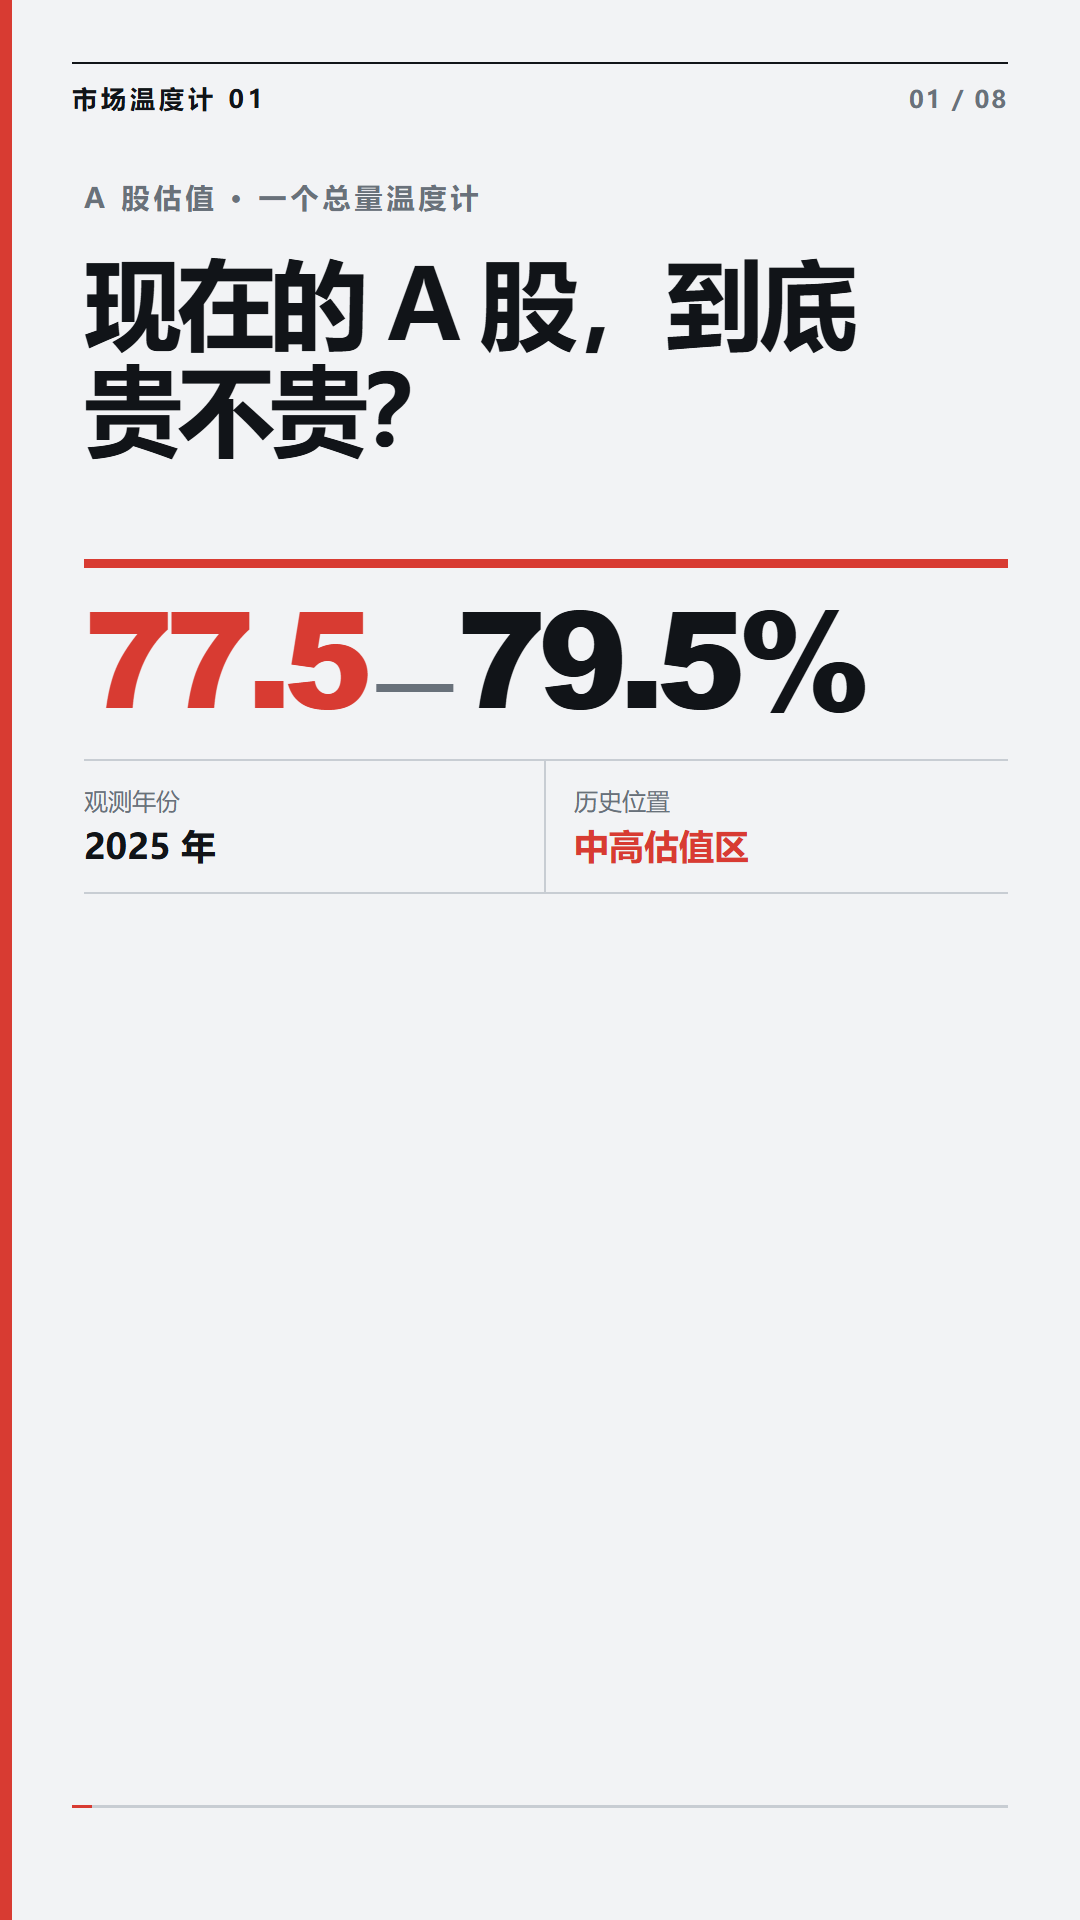
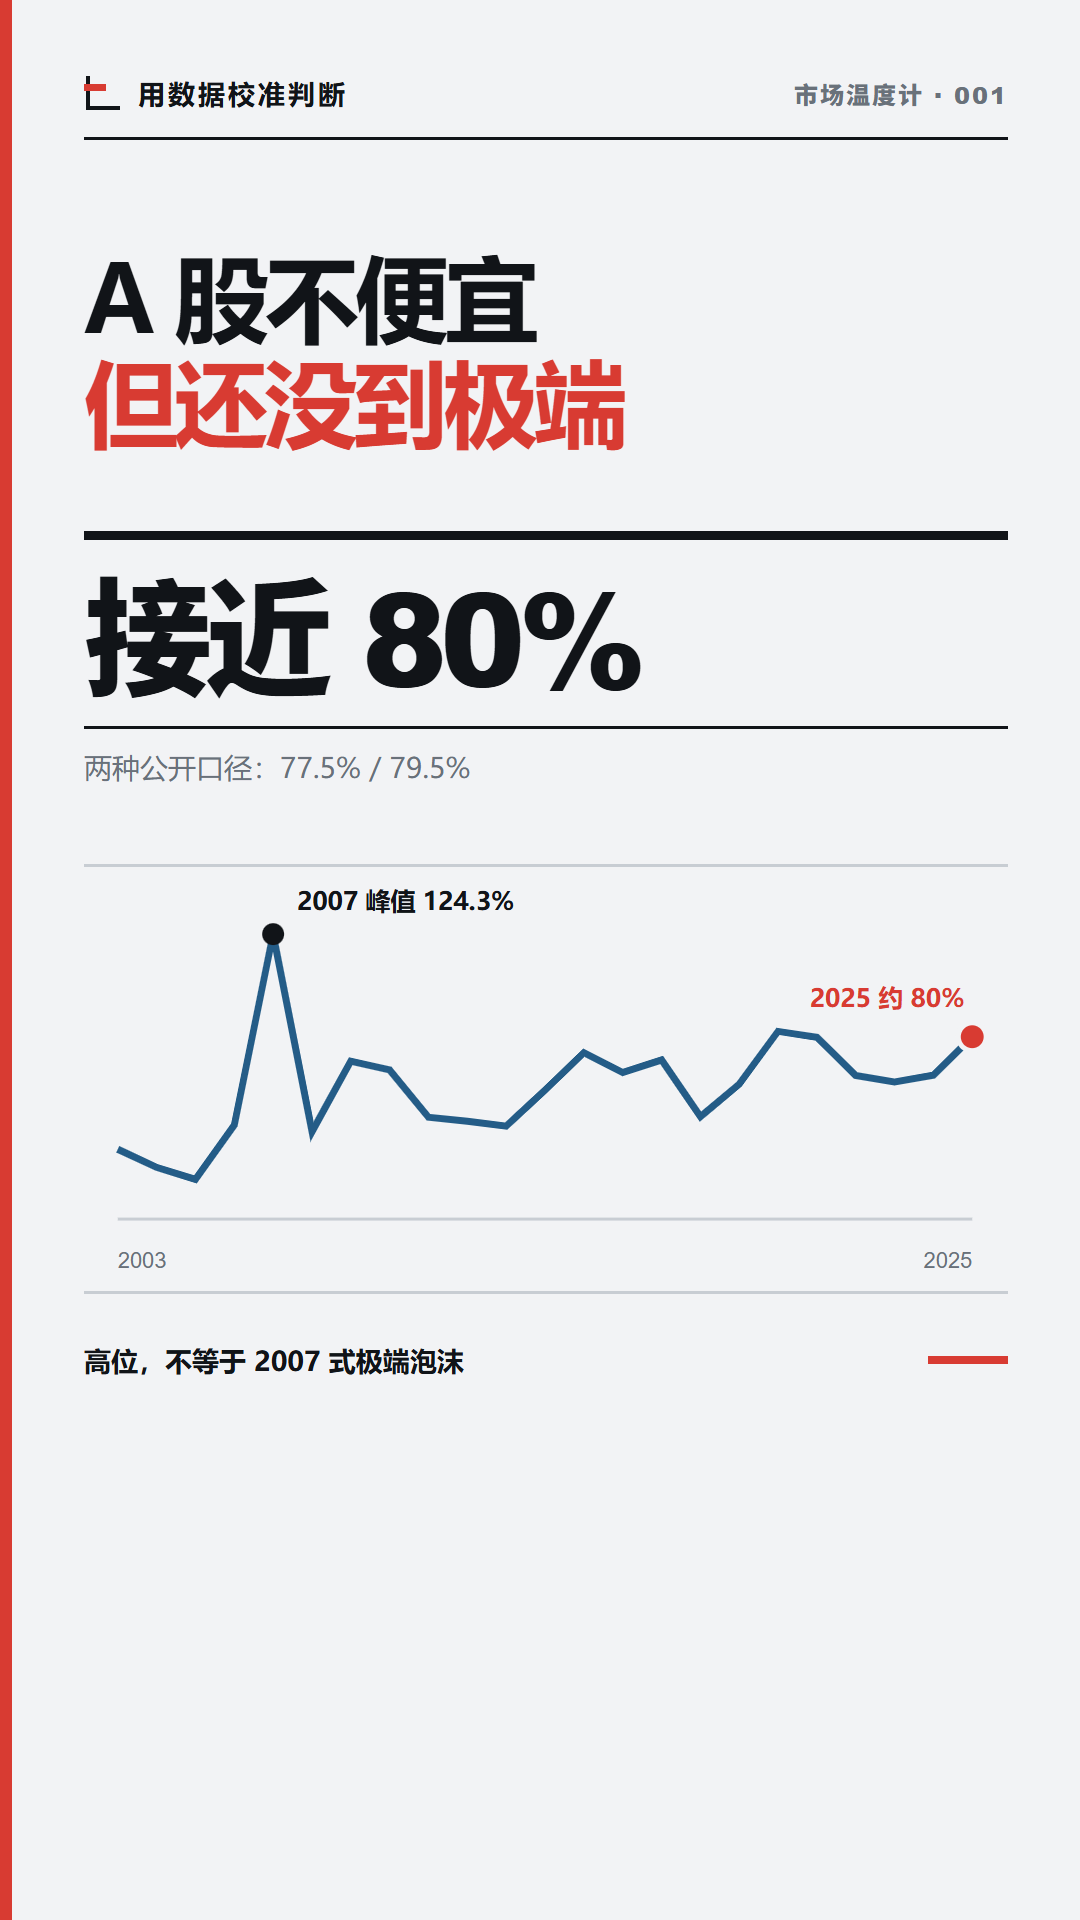
feat: add reviewed voice pacing and brand cover

diff --git a/src/video/KnowledgeCover.tsx b/src/video/KnowledgeCover.tsx
@@ -1,0 +1,68 @@
+import React from "react";
+import {AbsoluteFill} from "remotion";
+import {BrandMark} from "./BrandMark";
+import type {DataPoint, VideoProps} from "./types";
+import {fontFamily, numberFontFamily, theme} from "./theme";
+
+const Chart: React.FC<{points: DataPoint[]; peakLabel?: string; currentLabel?: string}> = ({points, peakLabel, currentLabel}) => {
+  if (points.length < 2) return null;
+  const chart = {x: 34, y: 46, width: 860, height: 300};
+  const minYear = Math.min(...points.map((point) => point.year));
+  const maxYear = Math.max(...points.map((point) => point.year));
+  const maxValue = Math.max(130, ...points.map((point) => point.value));
+  const projected = points.map((point) => ({
+    ...point,
+    x: chart.x + ((point.year - minYear) / (maxYear - minYear)) * chart.width,
+    y: chart.y + chart.height - (point.value / maxValue) * chart.height,
+  }));
+  const path = projected.map((point, index) => `${index === 0 ? "M" : "L"}${point.x.toFixed(1)},${point.y.toFixed(1)}`).join(" ");
+  const peak = projected.reduce((best, point) => point.value > best.value ? point : best, projected[0]);
+  const current = projected[projected.length - 1];
+  return (
+    <svg width="100%" height="100%" viewBox="0 0 930 410" style={{fontFamily}}>
+      <line x1={chart.x} y1={chart.y + chart.height} x2={chart.x + chart.width} y2={chart.y + chart.height} stroke={theme.divider} strokeWidth="3" />
+      <path d={path} fill="none" stroke={theme.blue} strokeWidth="7" strokeLinejoin="miter" />
+      <circle cx={peak.x} cy={peak.y} r="11" fill={theme.ink} />
+      <circle cx={current.x} cy={current.y} r="14" fill={theme.red} stroke={theme.paper} strokeWidth="5" />
+      <text x={Math.min(peak.x + 24, 695)} y={Math.max(28, peak.y - 24)} fontSize="25" fontWeight="800" fill={theme.ink}>{peakLabel}</text>
+      <text x={current.x - 8} y={current.y - 30} textAnchor="end" fontSize="25" fontWeight="850" fill={theme.red}>{currentLabel}</text>
+      <text x={chart.x} y="395" fontFamily={numberFontFamily} fontSize="22" fill={theme.inkMuted}>{minYear}</text>
+      <text x={chart.x + chart.width} y="395" textAnchor="end" fontFamily={numberFontFamily} fontSize="22" fill={theme.inkMuted}>{maxYear}</text>
+    </svg>
+  );
+};
+
+export const KnowledgeCover: React.FC<VideoProps> = (props) => {
+  const cover = props.cover ?? {};
+  const brand = props.brand ?? {};
+  const points = props.scenes.find((scene) => scene.template === "line-chart")?.visual.points ?? [];
+  const titleLines = cover.titleLines ?? [props.title];
+  return (
+    <AbsoluteFill style={{background: theme.paper, color: theme.ink, fontFamily, padding: "74px 72px 72px 84px"}}>
+      <div style={{position: "absolute", left: 0, top: 0, bottom: 0, width: 12, background: theme.red}} />
+      <div style={{display: "flex", justifyContent: "space-between", alignItems: "center", paddingBottom: 25, borderBottom: `3px solid ${theme.ink}`}}>
+        <BrandMark tagline={brand.tagline} />
+        <div style={{fontFamily: numberFontFamily, fontSize: 24, fontWeight: 850, letterSpacing: 2, color: theme.inkMuted}}>{brand.series ?? "市场温度计"} · {brand.issue ?? "001"}</div>
+      </div>
+
+      <div style={{marginTop: 104}}>
+        <div style={{fontSize: 94, lineHeight: 1.12, fontWeight: 950, letterSpacing: -4}}>
+          {titleLines.map((line, index) => <div key={line} style={{color: index === 1 ? theme.red : theme.ink}}>{line}</div>)}
+        </div>
+        <div style={{display: "flex", alignItems: "baseline", gap: 22, marginTop: 76, padding: "32px 0 26px", borderTop: `9px solid ${theme.ink}`, borderBottom: `3px solid ${theme.ink}`}}>
+          <div style={{fontFamily: numberFontFamily, fontSize: 128, lineHeight: 1, fontWeight: 950, letterSpacing: -7}}>{cover.stat ?? "接近 80%"}</div>
+        </div>
+        <div style={{fontSize: 28, lineHeight: 1.4, color: theme.inkMuted, marginTop: 18}}>{cover.statNote}</div>
+      </div>
+
+      <div style={{height: 430, marginTop: 78, borderTop: `3px solid ${theme.divider}`, borderBottom: `3px solid ${theme.divider}`}}>
+        <Chart points={points} peakLabel={cover.peakLabel} currentLabel={cover.currentLabel} />
+      </div>
+
+      <div style={{marginTop: 48, display: "flex", justifyContent: "space-between", alignItems: "center"}}>
+        <div style={{fontSize: 27, fontWeight: 800}}>高位，不等于 2007 式极端泡沫</div>
+        <div style={{width: 80, height: 8, background: theme.red}} />
+      </div>
+    </AbsoluteFill>
+  );
+};

diff --git a/src/video/KnowledgeVideo.tsx b/src/video/KnowledgeVideo.tsx
@@ -2,25 +2,21 @@ import React from "react";
 import {Audio} from "@remotion/media";
 import {AbsoluteFill, Sequence, staticFile, useCurrentFrame} from "remotion";
 import {CaptionLayer} from "./CaptionLayer";
+import {BrandMark} from "./BrandMark";
 import {SceneRenderer} from "./templates";
 import type {VideoProps} from "./types";
 import {fontFamily, theme} from "./theme";
 
 export const KnowledgeVideo: React.FC<VideoProps> = (props) => {
   const frame = useCurrentFrame();
-  const sceneIndex = Math.max(0, props.scenes.findIndex((scene) => frame >= scene.from && frame < scene.from + scene.durationInFrames));
-  const progress = Math.min(1, frame / Math.max(1, props.totalFrames - 1));
 
   return (
     <AbsoluteFill style={{background: theme.paper, color: theme.ink, fontFamily}}>
       <div style={{position: "absolute", left: 0, top: 0, bottom: 0, width: 12, background: theme.red}} />
       <div style={{position: "absolute", left: 72, right: 72, top: 62, height: 2, background: theme.ink}} />
-      <div style={{position: "absolute", left: 72, right: 72, top: 82, display: "flex", justifyContent: "space-between", alignItems: "baseline", color: theme.ink, fontWeight: 800}}>
-        <span style={{fontSize: 25, letterSpacing: 4}}>{props.seriesLabel}</span>
-        <span style={{fontSize: 24, color: theme.inkMuted, letterSpacing: 2}}>0{sceneIndex + 1} / 0{props.scenes.length}</span>
-      </div>
-      <div style={{position: "absolute", left: 72, right: 72, bottom: 112, height: 3, background: theme.divider}}>
-        <div style={{height: "100%", width: `${progress * 100}%`, background: theme.red}} />
+      <div style={{position: "absolute", left: 72, right: 72, top: 78, display: "flex", justifyContent: "space-between", alignItems: "center", color: theme.ink, fontWeight: 800}}>
+        <BrandMark tagline={props.brand?.tagline} compact />
+        <span style={{fontSize: 23, color: theme.inkMuted, letterSpacing: 2}}>{props.brand?.series ?? props.seriesLabel} · {props.brand?.issue ?? "001"}</span>
       </div>
 
       {props.scenes.map((scene) => (
@@ -29,7 +25,7 @@ export const KnowledgeVideo: React.FC<VideoProps> = (props) => {
             <SceneRenderer visual={scene.visual} />
           </AbsoluteFill>
           <Sequence from={scene.audioStartFrame}>
-            <Audio src={staticFile(scene.audioPath)} volume={1} />
+            <Audio src={staticFile(scene.audioPath)} volume={1} playbackRate={scene.audioPlaybackRate ?? 1} />
           </Sequence>
           {props.coverMode ? null : <CaptionLayer captions={scene.captions} />}
         </Sequence>

diff --git a/src/video/Root.tsx b/src/video/Root.tsx
@@ -1,6 +1,7 @@
 import React from "react";
 import {Composition} from "remotion";
 import {KnowledgeVideo} from "./KnowledgeVideo";
+import {KnowledgeCover} from "./KnowledgeCover";
 import type {VideoProps} from "./types";
 
 const defaultProps: VideoProps = {
@@ -12,9 +13,11 @@ const defaultProps: VideoProps = {
   height: 1920,
   totalFrames: 300,
   scenes: [],
+  brand: {tagline: "用数据校准判断", series: "市场温度计", issue: "001"},
+  cover: {titleLines: ["知识视频"], stat: ""},
 };
 
-export const RemotionRoot: React.FC = () => (
+export const RemotionRoot: React.FC = () => <>
   <Composition
     id="KnowledgeVideo"
     component={KnowledgeVideo}
@@ -23,11 +26,16 @@ export const RemotionRoot: React.FC = () => (
     width={defaultProps.width}
     height={defaultProps.height}
     defaultProps={defaultProps}
-    calculateMetadata={({props}) => ({
-      durationInFrames: props.totalFrames,
-      fps: props.fps,
-      width: props.width,
-      height: props.height,
-    })}
+    calculateMetadata={({props}) => ({durationInFrames: props.totalFrames, fps: props.fps, width: props.width, height: props.height})}
   />
-);
+  <Composition
+    id="KnowledgeCover"
+    component={KnowledgeCover}
+    durationInFrames={1}
+    fps={defaultProps.fps}
+    width={defaultProps.width}
+    height={defaultProps.height}
+    defaultProps={defaultProps}
+    calculateMetadata={({props}) => ({durationInFrames: 1, fps: props.fps, width: props.width, height: props.height})}
+  />
+</>;

diff --git a/src/video/templates/index.tsx b/src/video/templates/index.tsx
@@ -123,7 +123,7 @@ export const MeterScene: React.FC<{visual: VisualSpec}> = ({visual}) => {
       <SceneTitle visual={visual} />
       <div style={{borderTop: `10px solid ${theme.ink}`, paddingTop: 54}}>
         <div style={{fontFamily: numberFontFamily, fontSize: 118, lineHeight: 1, fontWeight: 900, color: theme.red, letterSpacing: -7}}>{current.toFixed(1)}%</div>
-        <div style={{fontSize: 29, fontWeight: 800, color: theme.inkMuted, marginTop: 13}}>当前区间中点</div>
+        <div style={{fontSize: 29, fontWeight: 800, color: theme.inkMuted, marginTop: 13}}>{String(visual.currentLabel ?? "当前值")}</div>
         <div style={{position: "relative", height: 180, marginTop: 50}}>
           <div style={{position: "absolute", left: 26, width: 840, top: 70, height: 38, background: `linear-gradient(90deg,#D9E3EA 0 48%,#B9C3CC 48% 62%,#E8ABA6 62% 100%)`}} />
           <div style={{position: "absolute", left: x-5, top: 31, width: 10, height: 115, background: theme.red}} />

diff --git a/src/video/BrandMark.tsx b/src/video/BrandMark.tsx
@@ -1,0 +1,16 @@
+import React from "react";
+import {theme} from "./theme";
+
+export const BrandMark: React.FC<{tagline?: string; compact?: boolean}> = ({
+  tagline = "用数据校准判断",
+  compact = false,
+}) => (
+  <div style={{display: "flex", alignItems: "center", gap: compact ? 13 : 16}}>
+    <div style={{position: "relative", width: compact ? 31 : 38, height: compact ? 31 : 38}}>
+      <div style={{position: "absolute", left: 2, bottom: 2, width: compact ? 27 : 34, height: 4, background: theme.ink}} />
+      <div style={{position: "absolute", left: 2, bottom: 2, width: 4, height: compact ? 27 : 34, background: theme.ink}} />
+      <div style={{position: "absolute", left: 0, top: compact ? 8 : 10, width: compact ? 18 : 22, height: 7, background: theme.red}} />
+    </div>
+    <div style={{fontSize: compact ? 23 : 27, fontWeight: 850, letterSpacing: compact ? 2.5 : 3}}>{tagline}</div>
+  </div>
+);

diff --git a/src/video/CaptionLayer.tsx b/src/video/CaptionLayer.tsx
@@ -10,7 +10,7 @@ export const CaptionLayer: React.FC<{captions: Caption[]}> = ({captions}) => {
   const opacity = interpolate(frame - caption.startFrame, [0, 4], [0, 1], {extrapolateRight: "clamp"});
 
   return (
-    <div style={{position: "absolute", left: 72, right: 72, bottom: 148, borderTop: `8px solid ${theme.red}`, background: "rgba(17,20,24,0.96)", color: theme.white, fontFamily, fontSize: 45, fontWeight: 700, lineHeight: 1.38, letterSpacing: 0.5, textAlign: "left", padding: "29px 34px 31px", opacity}}>
+    <div style={{position: "absolute", left: 72, right: 72, bottom: 148, borderLeft: `8px solid ${theme.red}`, background: "rgba(17,20,24,0.96)", color: theme.white, fontFamily, fontSize: 43, fontWeight: 700, lineHeight: 1.38, letterSpacing: 0.5, textAlign: "left", padding: "25px 32px 27px", opacity}}>
       {caption.text}
     </div>
   );

diff --git a/src/video/types.ts b/src/video/types.ts
@@ -37,6 +37,7 @@ export type PreparedScene = {
   durationInFrames: number;
   audioStartFrame: number;
   audioPath: string;
+  audioPlaybackRate?: number;
   displayText: string;
   sourceIds: string[];
   template: string;
@@ -53,5 +54,7 @@ export type VideoProps = {
   height: number;
   totalFrames: number;
   scenes: PreparedScene[];
+  brand?: {tagline?: string; series?: string; issue?: string};
+  cover?: {titleLines?: string[]; stat?: string; statNote?: string; peakLabel?: string; currentLabel?: string};
   coverMode?: boolean;
 };

diff --git a/brand/BRAND.md b/brand/BRAND.md
@@ -1,0 +1,31 @@
+# 品牌识别系统 v1
+
+## 两级结构
+
+- 主品牌：当前先使用“坐标轴 + 红色基准刻度”几何标志，旁边放主张“用数据校准判断”。账号名称确定后，名称可替换主张，图形不变。
+- 系列品牌：按内容栏目编号。本项目使用“市场温度计 · 001”；未来可扩展“工具拆解”“商业样本”等系列。
+
+“市场温度计”只是财经估值系列，不承担所有知识视频的总品牌名称。
+
+## 固定识别符
+
+1. 左上角使用黑色 L 形坐标轴与红色短刻度。
+2. 右上角使用“系列名 · 三位编号”。
+3. 冷灰为纸面，黑色为主判断，金融蓝为历史/参考数据，信号红只标当前结论或风险点。
+4. 字幕使用黑色矩形底与左侧红色锚点，不使用悬浮胶囊和柔和阴影。
+5. 来源卡、免责声明和封面均复用同一标志、色彩语义和编号方式。
+
+## 独立封面
+
+封面不从视频抽帧。每条封面只保留：
+
+- 一个 8—14 字的判断或问题，最多两行；
+- 一个核心数字或量级；
+- 一个证据性小图；
+- 主品牌标志和系列编号。
+
+不放场景页码、播放进度、元数据表格或无法在 25% 缩略图下阅读的小字。核心信息必须进入中央 3:4 裁切安全区，兼容抖音主页与小红书预览。
+
+## 片尾
+
+来源场景承担可信度收束，并固定保留主品牌标志、来源、免责声明。后续账号名称确定后，可增加 1.5—2 秒独立签名帧：标志 + 账号名 + “用数据校准判断”，不做夸张关注动画。

diff --git a/docs/REVIEW_WORKFLOW.md b/docs/REVIEW_WORKFLOW.md
@@ -1,0 +1,38 @@
+# 独立审核闸门
+
+每条知识视频在正式渲染前至少经过两名与制作 agent 相互独立的审核者。审核者默认只出报告，不直接改文件，由主制作 agent 合并意见并实施。
+
+## 内容审核
+
+输入：原始资料、来源清单、数据文件、口播稿和分镜。
+
+必须检查：
+
+- 数字、口径、年份和限定条件是否一致；
+- 是否把不同口径取平均、拼接或暗示成同一序列；
+- 结论是否超出来源能够支持的范围；
+- 是否存在机器腔、指代不清、重复结论或突兀转折；
+- 口播和当前画面是否讲同一件事；
+- 分清事实、计算结果和分析判断。
+
+报告按 P0（必须改）、P1（建议改）、P2（语言优化）排序，并优先给最小修改建议。
+
+## 视觉与品牌审核
+
+输入：封面、每场景中段关键帧、设计规范和最终视频。
+
+必须检查：
+
+- 是否仍像网页、报告翻页或通用 AI 模板；
+- 文字是否穿模、重叠或进入平台交互区；
+- 颜色语义、图表标注和来源脚注是否一致；
+- 封面在 25% 缩略图下是否只剩一个清楚的判断；
+- 主品牌、系列编号、字幕锚点和片尾签名是否连续。
+
+## 发布前条件
+
+- P0 问题全部关闭；
+- 技术质检通过；
+- 封面使用独立 composition，而不是视频抽帧；
+- 低清预览由人工确认后再发布；
+- 不自动发布到平台。

diff --git a/docs/TTS_RESEARCH.md b/docs/TTS_RESEARCH.md
@@ -4,6 +4,10 @@
 
 正式品牌声线不再使用 Edge TTS。Edge 只保留为零成本工程预览。
 
+当前试播片使用 `Qwen3-TTS-12Hz-0.6B-CustomVoice / Dylan`。Dylan 是带北京口音的年轻男声，用户听到京津腔属于音色特征，不是异常。当前项目通过 `voice.playbackRate: 1.08` 加快播放；建议调节区间为 1.04—1.12，超过 1.12 必须重新试听齿音、尾音和数字清晰度。
+
+它是“RTX 4060 Ti 8GB、本地零调用费、已经跑通”条件下的最佳折中，不是所有服务中的绝对最佳。正式主声线仍应由同稿盲听决定。
+
 推荐按以下顺序试听：
 
 1. **Fish Audio S2.1 Pro**：商业 API 主选。中文自然度、语气控制和专业词发音控制最符合财经口播；官方提供同品质的 `s2.1-pro-free` 开发模型。

diff --git a/README.md b/README.md
@@ -86,6 +86,10 @@ pnpm video:qa a-share-buffett --final
 
 正式版会自动做响度标准化。质检会检查尺寸、编码、时长、字幕时间、来源、黑帧与音量，并从每个场景抽取一张截图到 `tmp/qa/`。
 
+项目可在 `projects/<slug>/config.json` 中用 `voice.playbackRate` 控制成片语速。建议先试 `1.04—1.12`；当前试播片使用 `1.08`。封面由独立的 `KnowledgeCover` 画布生成，不再从视频首帧抽取。
+
+正式渲染前按 [独立审核闸门](docs/REVIEW_WORKFLOW.md) 分别做内容审核与视觉/品牌审核；品牌识别规则见 [brand/BRAND.md](brand/BRAND.md)。
+
 ## 下一步
 
 1. 增加 Fish Audio、Azure Dragon HD 等云端正式 TTS 适配器。
